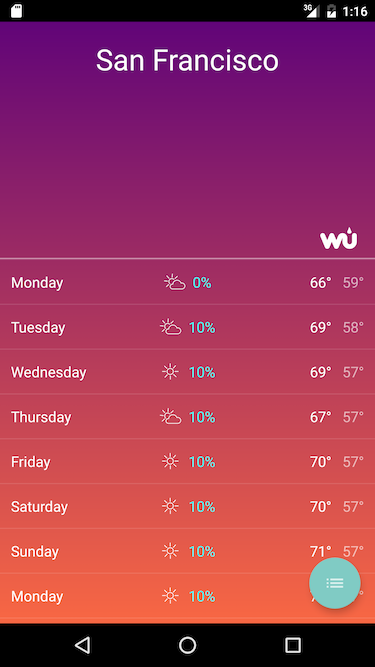
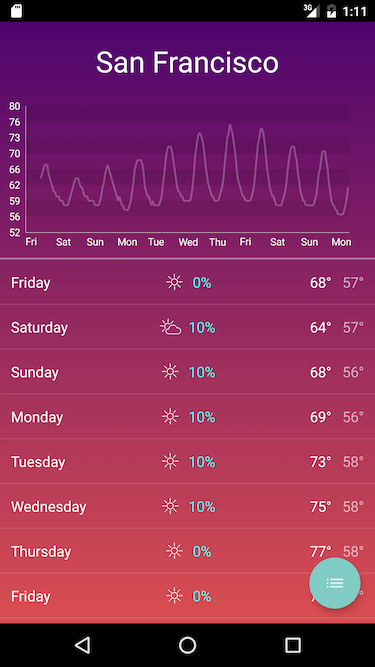
daily temp graph for android

diff --git a/XWeather/Droid/View/DailyGraphView.cs b/XWeather/Droid/View/DailyGraphView.cs
@@ -1,0 +1,323 @@
+using System;
+using Android.Content;
+using Android.Views;
+using Android.Util;
+using Android.Graphics;
+using System.Collections.Generic;
+using XWeather.Domain;
+using XWeather.Clients;
+using System.Linq;
+using SettingsStudio;
+using Android.Text;
+
+namespace XWeather.Droid
+{
+	public class DailyGraphView : View
+	{
+		List<ForecastDay> Forecasts => WuClient.Shared?.Selected?.Forecasts ?? new List<ForecastDay> ();
+
+		List<HourlyForecast> Hourly => WuClient.Shared?.Selected?.HourlyForecasts ?? new List<HourlyForecast> ();
+
+
+		List<double> _highTemps;
+		List<double> HighTemps => _highTemps ?? (_highTemps = Forecasts.Select (f => f.HighTemp (Settings.UomTemperature)).ToList ());
+
+
+		List<double> _lowTemps;
+		List<double> LowTemps => _lowTemps ?? (_lowTemps = Forecasts.Select (f => f.LowTemp (Settings.UomTemperature)).ToList ());
+
+
+		List<double> _hourlyTemps;
+		List<double> HourlyTemps => _hourlyTemps ?? (_hourlyTemps = Hourly.Select (h => h.Temp (Settings.UomTemperature)).ToList ());
+
+
+		float padding = 30;
+
+		float lineWidth = 2;
+
+		float fontSize = 11;
+
+
+		int dividerCount = 8;
+
+		int scalePadding = 4;
+
+
+		bool hourly => !Settings.HighLowGraph;
+
+		RectF graphRect;
+
+		float scaleHigh, scaleLow, scaleRange, scaleX, scaleY, inset, density;
+
+
+		public DailyGraphView (Context context) : base (context) { }
+
+		public DailyGraphView (Context context, IAttributeSet attrs) : base (context, attrs) { }
+
+		public DailyGraphView (Context context, IAttributeSet attrs, int defStyleAttr) : base (context, attrs, defStyleAttr) { }
+
+
+		bool scaled;
+
+		public override void Draw (Canvas canvas)
+		{
+			base.Draw (canvas);
+
+			if (!scaled) {
+
+				density = Resources.DisplayMetrics.Density;
+
+				padding *= density;
+
+				lineWidth *= density;
+
+				fontSize *= density;
+
+				scaled = true;
+			}
+
+
+			_highTemps = null;
+			_lowTemps = null;
+
+			_hourlyTemps = null;
+
+
+			if (Forecasts.Count == 0 || Hourly.Count == 0) return;
+
+
+			graphRect = new RectF (padding, padding, canvas.Width - padding, canvas.Height - padding);// CGRect (rect.X + padding, rect.Y + padding, rect.Width - (padding * 2), rect.Height - (padding * 2));
+
+			System.Diagnostics.Debug.WriteLine ($"lineWidth = {lineWidth}");
+
+			System.Diagnostics.Debug.WriteLine ($"canvas.Width = {canvas.Width}");
+			System.Diagnostics.Debug.WriteLine ($"canvas.Height = {canvas.Height}");
+			System.Diagnostics.Debug.WriteLine ($"graphRect.Width() = {graphRect.Width ()}");
+			System.Diagnostics.Debug.WriteLine ($"graphRect.Height() = {graphRect.Height ()}");
+
+			System.Diagnostics.Debug.WriteLine ($"graphRect.Left = {graphRect.Left}");
+			System.Diagnostics.Debug.WriteLine ($"graphRect.Top = {graphRect.Top}");
+			System.Diagnostics.Debug.WriteLine ($"graphRect.Right = {graphRect.Right}");
+			System.Diagnostics.Debug.WriteLine ($"graphRect.Bottom = {graphRect.Bottom}");
+
+			var days = Hourly.GroupBy (h => h.FCTTIME.mday).Select (g => g.First ().FCTTIME.weekday_name_abbrev).ToList ();
+
+			var dayCount = hourly ? days.Count : Forecasts.Count;
+
+
+			var xAxisScale = (graphRect.Width () + padding / 2) / dayCount;
+
+			inset = xAxisScale / 2;
+
+
+			var highest = (float)(hourly ? HourlyTemps.Max () : HighTemps.Max ());
+			var lowest = (float)(hourly ? HourlyTemps.Min () : LowTemps.Min ());
+
+
+			scaleHigh = (float)Math.Round (highest, MidpointRounding.AwayFromZero);
+			scaleLow = lowest < 0 ? (float)Math.Round (lowest, MidpointRounding.AwayFromZero) : (float)Math.Round (lowest);
+
+			var rangePadding = Settings.UomTemperature.IsImperial () ? scalePadding : (scalePadding / 2);
+
+
+			scaleHigh += rangePadding;
+			scaleLow -= rangePadding;
+
+			scaleRange = scaleHigh - scaleLow;
+
+
+			var scaleIncrement = scaleRange / dividerCount;
+
+			scaleX = (graphRect.Width () - inset) / (hourly ? HourlyTemps.Count : Forecasts.Count);
+			scaleY = graphRect.Height () / dividerCount;
+
+
+			float x, y;
+
+			var white = Color.White;
+
+
+			// Draw x and y axis
+			var paint = new Paint ();
+			paint.Color = white;
+			paint.StrokeWidth = 1;
+
+			using (Path path = new Path ()) {
+
+				path.MoveTo (graphRect.Left, graphRect.Top);
+
+				path.LineTo (graphRect.Left, graphRect.Bottom);
+				path.LineTo (graphRect.Right, graphRect.Bottom);
+
+				paint.SetStyle (Paint.Style.Stroke);
+
+				canvas.DrawPath (path, paint);
+			}
+
+
+			Color translucentBlack = Color.Argb (20, 0, 0, 0);
+
+			paint.Color = translucentBlack;
+
+			paint.SetStyle (Paint.Style.Fill);
+
+			// Draw horizontal gridlines
+			for (int i = 1; i < dividerCount; i += 2) {
+
+				y = graphRect.Bottom - ((i + 1) * scaleY);
+
+				using (RectF grid = new RectF (padding, y, graphRect.Right, y + scaleY))
+					canvas.DrawRect (grid, paint);
+			}
+
+
+			drawLines (canvas, paint);
+
+			float labelPadding = 6 * density;
+
+			float yStep = scaleLow;
+
+			// Draw y-axis labels
+			for (int i = dividerCount; i >= 0; i--) {
+
+				y = padding + (i * scaleY);
+
+				var step = Math.Round (yStep).ToString ();
+
+				drawLabel (canvas, graphRect.Left - labelPadding, y, Paint.Align.Right, step, true);
+
+				yStep += scaleIncrement;
+			}
+
+
+			// Draw x-axis labels
+			for (int i = 0; i < dayCount; i++) {
+
+				x = padding + (i * xAxisScale);
+
+				drawLabel (canvas, x, graphRect.Bottom + labelPadding, Paint.Align.Left, hourly ? days [i] : Forecasts [i]?.date?.weekday_short);
+			}
+		}
+
+
+		void drawLines (Canvas canvas, Paint paint)
+		{
+			float x, y;
+
+			// Draw curved graph line
+			var whiteAlpha25 = Color.Argb (64, 255, 255, 255);
+			//var whiteAlpha70 = Color.Argb (64, 255, 255, 255);
+
+			var start = new PointF ();
+			var end = new PointF ();
+
+			using (Path path = new Path ()) {
+
+
+				var count = hourly ? HourlyTemps.Count : (Forecasts.Count * 2);
+
+				for (int i = 0; i < count; i++) {
+
+					// adjusted index
+					var ai = i;
+
+					double temp;
+
+					if (hourly) {
+
+						temp = HourlyTemps [ai];
+
+					} else {
+
+						// reset start when switching from highs to lows
+						if (i == Forecasts.Count) start = new PointF ();
+
+						var highs = i < Forecasts.Count;
+
+						ai = highs ? i : i - Forecasts.Count;
+
+						temp = highs ? HighTemps [ai] : LowTemps [ai];
+					}
+
+					var percent = ((float)temp - scaleLow) / scaleRange;
+
+
+					x = padding + inset + (ai * scaleX);
+
+					y = graphRect.Bottom - (graphRect.Height () * percent);
+
+
+					end = new PointF (x, y);
+
+
+					if (!hourly) {
+
+						path.AddCircle (end.X - lineWidth, end.Y - lineWidth, lineWidth / 2, Path.Direction.Cw);
+					}
+
+
+					if (start.IsEmpty ()) {
+
+						path.MoveTo (end);
+
+					} else {
+
+						path.MoveTo (start);
+
+						if (hourly) {
+
+							path.LineTo (end);
+
+						} else {
+
+							var diff = (end.X - start.X) / 2;
+
+							path.CubicTo (end.X - diff, start.Y, start.X + diff, end.Y, end.X, end.Y);
+						}
+					}
+
+					start = end;
+				}
+
+				paint.Color = whiteAlpha25;
+				paint.StrokeWidth = lineWidth;
+
+				paint.SetStyle (Paint.Style.Stroke);
+
+				canvas.DrawPath (path, paint);
+			}
+		}
+
+
+		void drawLabel (Canvas canvas, float xCoord, float yCoord, Paint.Align alignment, string label, bool centerVertical = false)
+		{
+			var fontColor = Color.White;
+
+			var textPaint = new TextPaint ();
+
+			textPaint.Color = fontColor;
+
+			textPaint.TextSize = fontSize;
+
+			textPaint.TextAlign = alignment;
+
+			textPaint.SetStyle (Paint.Style.Stroke);
+
+
+			var frame = new Rect ();
+
+			textPaint.GetTextBounds (label, 0, label.Length, frame);
+
+			if (centerVertical) {
+
+				yCoord -= frame.CenterY ();
+
+			} else {
+
+				yCoord += frame.Height ();
+			}
+
+			canvas.DrawText (label, xCoord, yCoord, textPaint);
+		}
+	}
+}

diff --git a/XWeather/Droid/Extensions/PathExtensions.cs b/XWeather/Droid/Extensions/PathExtensions.cs
@@ -1,0 +1,14 @@
+using System;
+using Android.Graphics;
+
+namespace XWeather.Droid
+{
+	public static class PathExtensions
+	{
+		public static void LineTo (this Path path, PointF point) => path.LineTo (point.X, point.Y);
+
+		public static void MoveTo (this Path path, PointF point) => path.MoveTo (point.X, point.Y);
+
+		public static bool IsEmpty (this PointF point) => (point.X == 0 && point.Y == 0);
+	}
+}

diff --git a/XWeather/iOS/ViewControllers/WeatherPvc.cs b/XWeather/iOS/ViewControllers/WeatherPvc.cs
@@ -156,7 +156,7 @@ namespace XWeather.iOS
 		}
 
 
-#if !DEBUG
+#if DEBUG
 
 		void getData () => TestDataProvider.InitTestDataAsync ();
 
